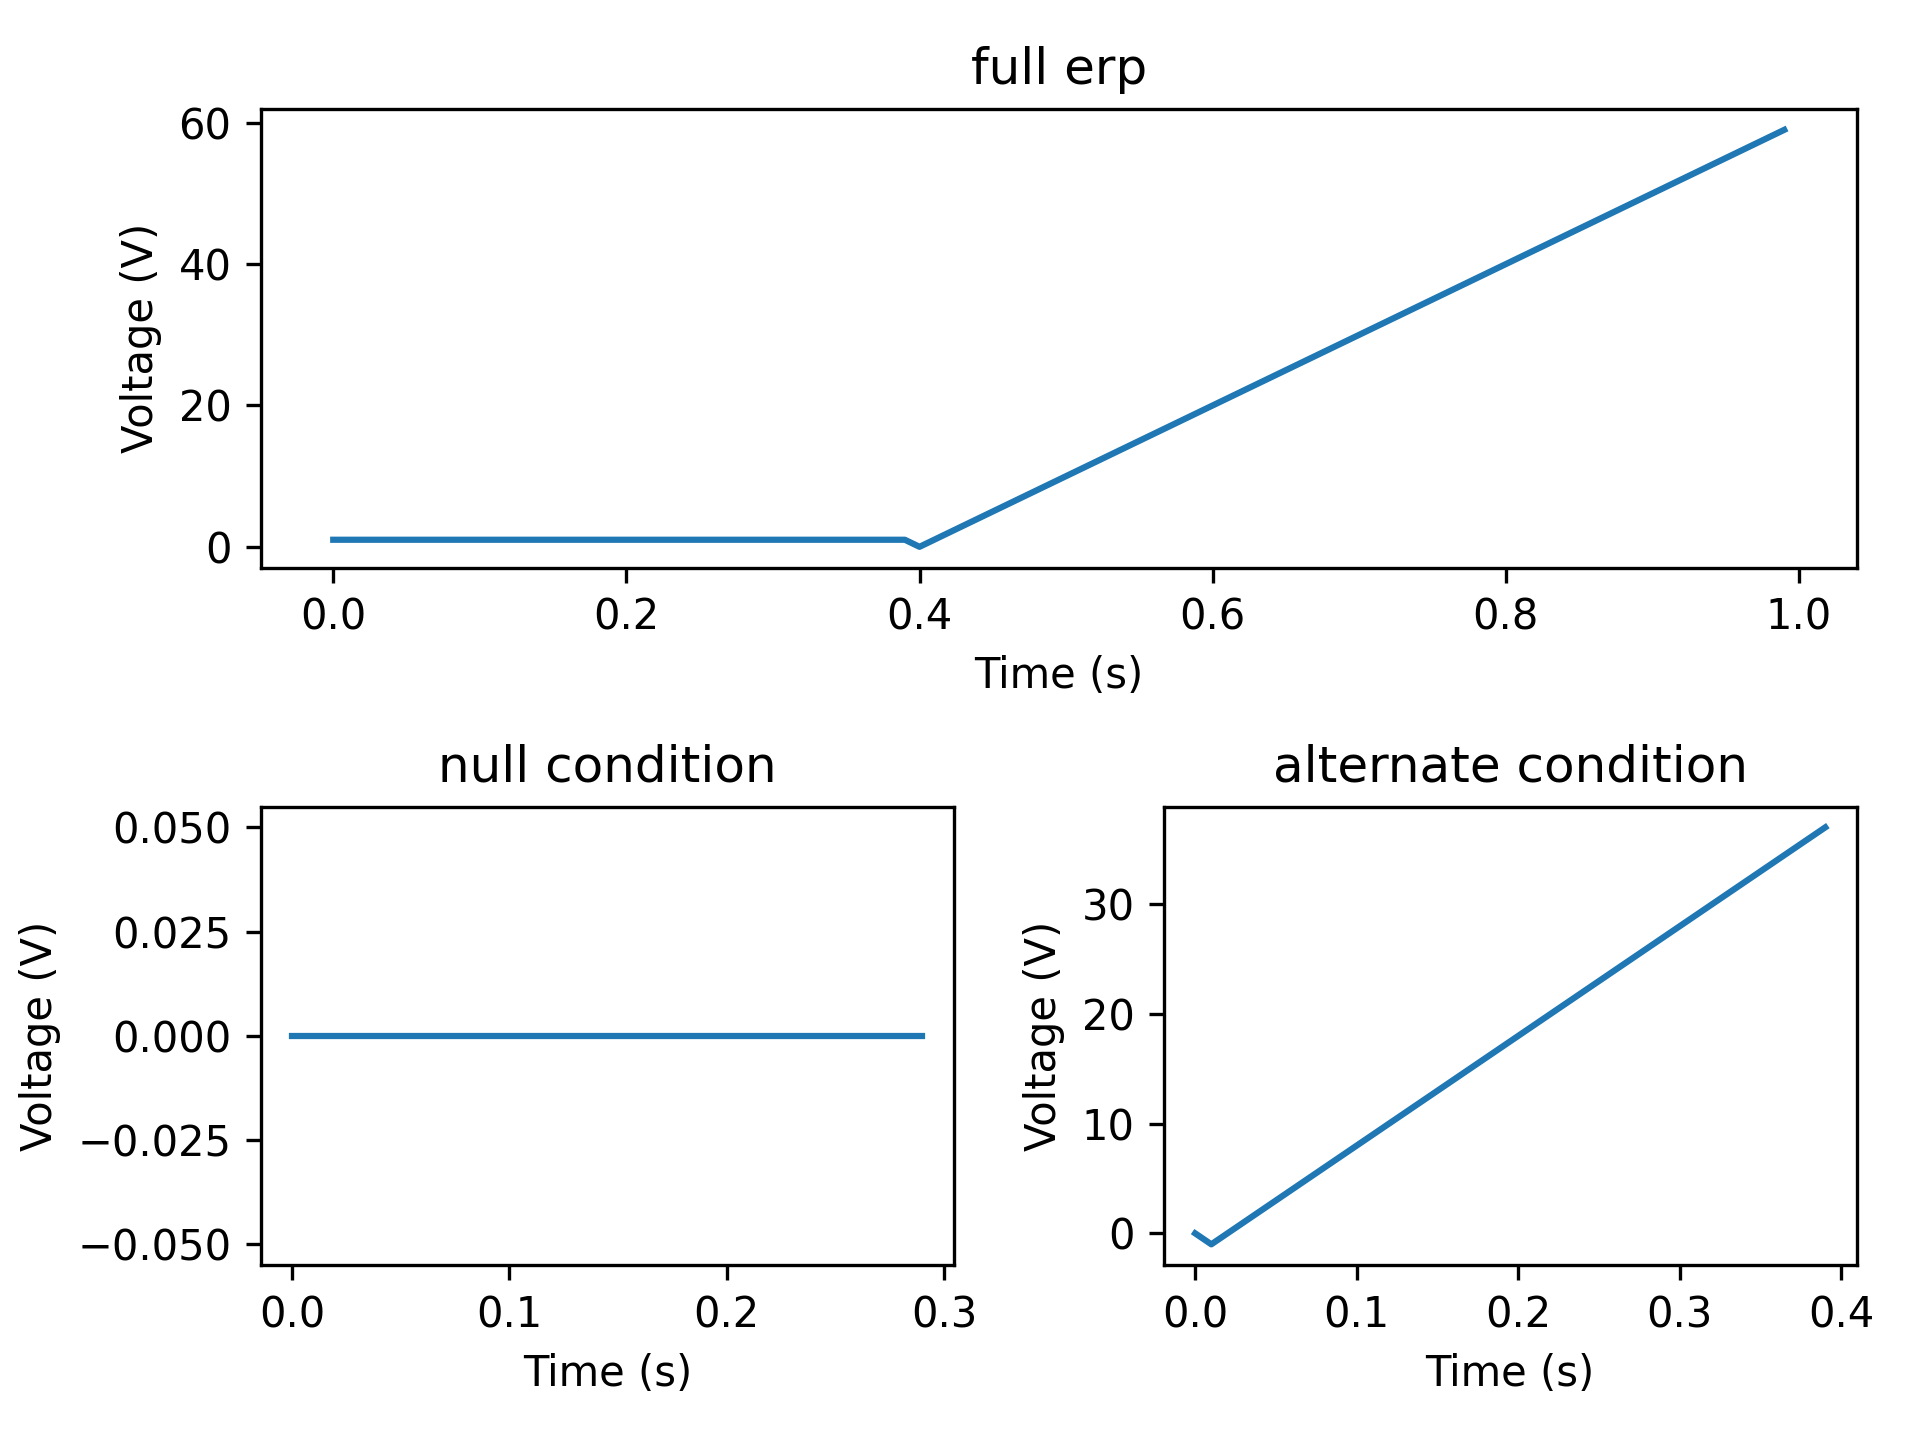
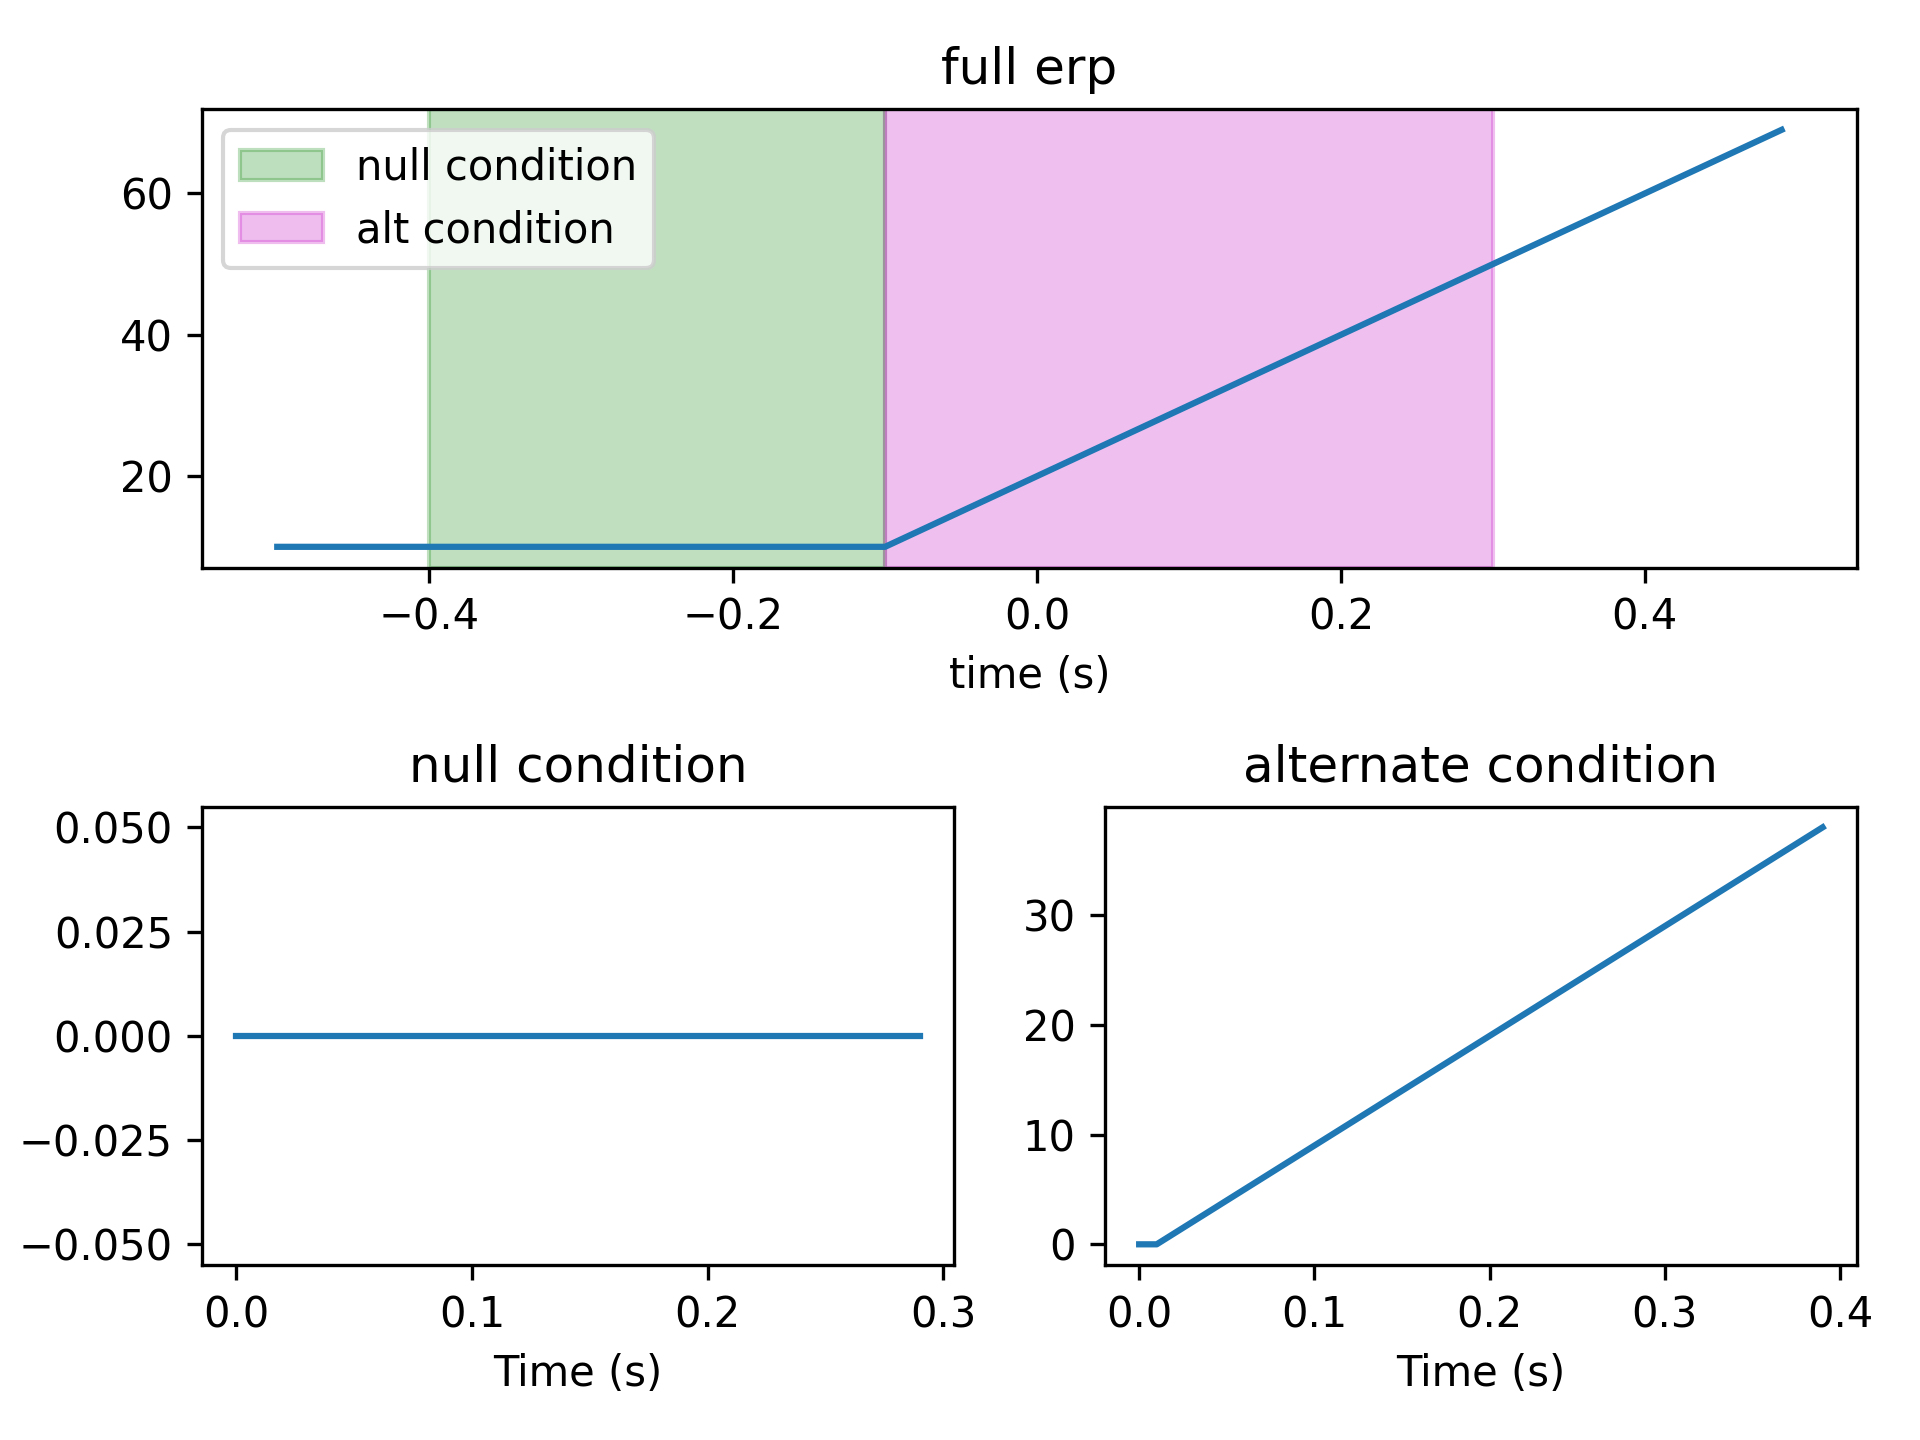
switch to window

diff --git a/aopy/analysis/accllr.py b/aopy/analysis/accllr.py
@@ -639,12 +639,10 @@ def calc_accllr_st(data_altcond, data_nullcond, lowpass_altcond, lowpass_nullcon
 
 
 def prepare_erp(erp, erp_lowpass, samplerate, time_before, time_after, 
-                time_before_new, time_after_new, time_shift=0.):
+                window_nullcond, window_altcond):
     '''
     Prepare data for accllr. Given event-related potentials, organize alternative
     and null condition data and subtract the mean baseline from the null condition.
-    Additionally shift the data to the right such that the trigger time comes
-    earlier by a fixed amount, for instance if your data is filtered by mtfilter.
 
     Args:
         erp ((nt, nch, ntr) array): trial-aligned data
@@ -652,9 +650,8 @@ def prepare_erp(erp, erp_lowpass, samplerate, time_before, time_after,
         samplerate (float): sampling rate of the erps
         time_before (float): time before event in the erp (in seconds)
         time_after (float): time after event in the erp (in seconds)
-        time_before_new (float): desired length of nullcond (in seconds)
-        time_after_new (float): desired length of altcond (in seconds)
-        time_shift (float): additional time to shift the signal, e.g. if filtering was used
+        window_nullcond ((2,) tuple of float): desired (start, end) of nullcond (in seconds)
+        window_altcond ((2,) tuple of float): desired (start, end) of altcond (in seconds)
 
     Returns:
         tuple: tuple containing:
@@ -675,29 +672,32 @@ def prepare_erp(erp, erp_lowpass, samplerate, time_before, time_after,
             samplerate = 100
             time_before = align_idx/samplerate
             time_after = time_before
-            time_before_new = 0.3
-            time_after_new = 0.4
-            time_shift = 0.1
-            data = np.ones(npts)
-            data[onset_idx:] = np.arange(npts-onset_idx)
+            window_nullcond = (-0.4, -0.1)
+            window_altcond = (-0.1, 0.3)
+            data = np.ones(npts)*10
+            data[onset_idx:] = 10 + np.arange(npts-onset_idx)
             data = np.repeat(np.tile(data, (nch,1)).T[:,:,None], ntrials, axis=2)
 
             data_altcond, data_nullcond, lowpass_altcond, lowpass_nullcond = accllr.prepare_erp(
-                data, data, samplerate, time_before, time_after, time_before_new, time_after_new, time_shift=time_shift,
+                data, data, samplerate, time_before, time_after, window_nullcond, window_altcond,
             )
 
         .. image:: _images/prepare_erp_for_accllr.png
 
 
     '''
-    assert time_before_new <= time_before - time_shift
-    assert time_after_new <= time_after - time_shift
+    assert len(window_nullcond) == 2 and window_nullcond[1] > window_nullcond[0]
+    assert len(window_altcond) == 2 and window_altcond[1] > window_altcond[0]
+    assert window_nullcond[0] >= -time_before
+    assert window_altcond[1] <= time_after
     
     # Find start and end indices
-    altcond_start = int((time_before-time_shift)*samplerate)-1
-    altcond_end = altcond_start + int(time_after_new*samplerate)
-    nullcond_end = altcond_start
-    nullcond_start = altcond_start-int(time_before_new*samplerate)
+    altcond_start = int((time_before+window_altcond[0])*samplerate)-1
+    altcond_dur = window_altcond[1] - window_altcond[0]
+    altcond_end = altcond_start + int(altcond_dur*samplerate)
+    nullcond_start = int((time_before+window_nullcond[0])*samplerate)
+    nullcond_dur = window_nullcond[1] - window_nullcond[0]
+    nullcond_end = nullcond_start+int(nullcond_dur*samplerate)
     
     # Extract data
     data_altcond = erp[altcond_start:altcond_end,:,:].copy()

diff --git a/tests/test_analysis.py b/tests/test_analysis.py
@@ -871,34 +871,43 @@ class AccLLRTests(unittest.TestCase):
         samplerate = 100
         time_before = align_idx/samplerate
         time_after = time_before
-        time_before_new = 0.3
-        time_after_new = 0.4
-        time_shift = 0.1
-        data = np.ones(npts)
-        data[onset_idx:] = np.arange(npts-onset_idx)
+        window_nullcond = (-0.4, -0.1)
+        window_altcond = (-0.1, 0.3)
+        data = np.ones(npts)*10
+        data[onset_idx:] = 10 + np.arange(npts-onset_idx)
         data = np.repeat(np.tile(data, (nch,1)).T[:,:,None], ntrials, axis=2)
 
         data_altcond, data_nullcond, lowpass_altcond, lowpass_nullcond = accllr.prepare_erp(
-            data, data, samplerate, time_before, time_after, time_before_new, time_after_new, time_shift=time_shift,
+            data, data, samplerate, time_before, time_after, window_nullcond, window_altcond,
         )
 
-        self.assertEqual(data_altcond.shape, (int(time_after_new*samplerate), nch, ntrials))
-        self.assertEqual(data_nullcond.shape, (int(time_before_new*samplerate), nch, ntrials))
-        self.assertEqual(lowpass_altcond.shape, (int(time_after_new*samplerate), nch, ntrials))
-        self.assertEqual(lowpass_nullcond.shape, (int(time_before_new*samplerate), nch, ntrials))
+        altcond_dur = window_altcond[1] - window_altcond[0]
+        nullcond_dur = window_nullcond[1] - window_nullcond[0]
+
+        self.assertEqual(data_altcond.shape, (int(altcond_dur*samplerate), nch, ntrials))
+        self.assertEqual(data_nullcond.shape, (int(nullcond_dur*samplerate), nch, ntrials))
+        self.assertEqual(lowpass_altcond.shape, (int(altcond_dur*samplerate), nch, ntrials))
+        self.assertEqual(lowpass_nullcond.shape, (int(nullcond_dur*samplerate), nch, ntrials))
 
         plt.figure()
         plt.subplot(2,1,1)
-        aopy.visualization.plot_timeseries(data[:,0,0], samplerate)
+        time = np.arange(len(data))/samplerate - time_before
+        plt.plot(time, data[:,0,0])
+        plt.xlabel('time (s)')
+        plt.axvspan(*window_nullcond, color='g', alpha=0.25, label='null condition')
+        plt.axvspan(*window_altcond, color='m', alpha=0.25, label='alt condition')
         plt.title('full erp')
+        plt.legend()
 
         plt.subplot(2,2,3)
         aopy.visualization.plot_timeseries(data_nullcond[:,0,0], samplerate)
+        plt.ylabel('')
         plt.title('null condition')
 
         plt.subplot(2,2,4)
         aopy.visualization.plot_timeseries(data_altcond[:,0,0], samplerate)
         plt.title('alternate condition')
+        plt.ylabel('')
         plt.tight_layout()
 
         filename = 'prepare_erp_for_accllr.png'
